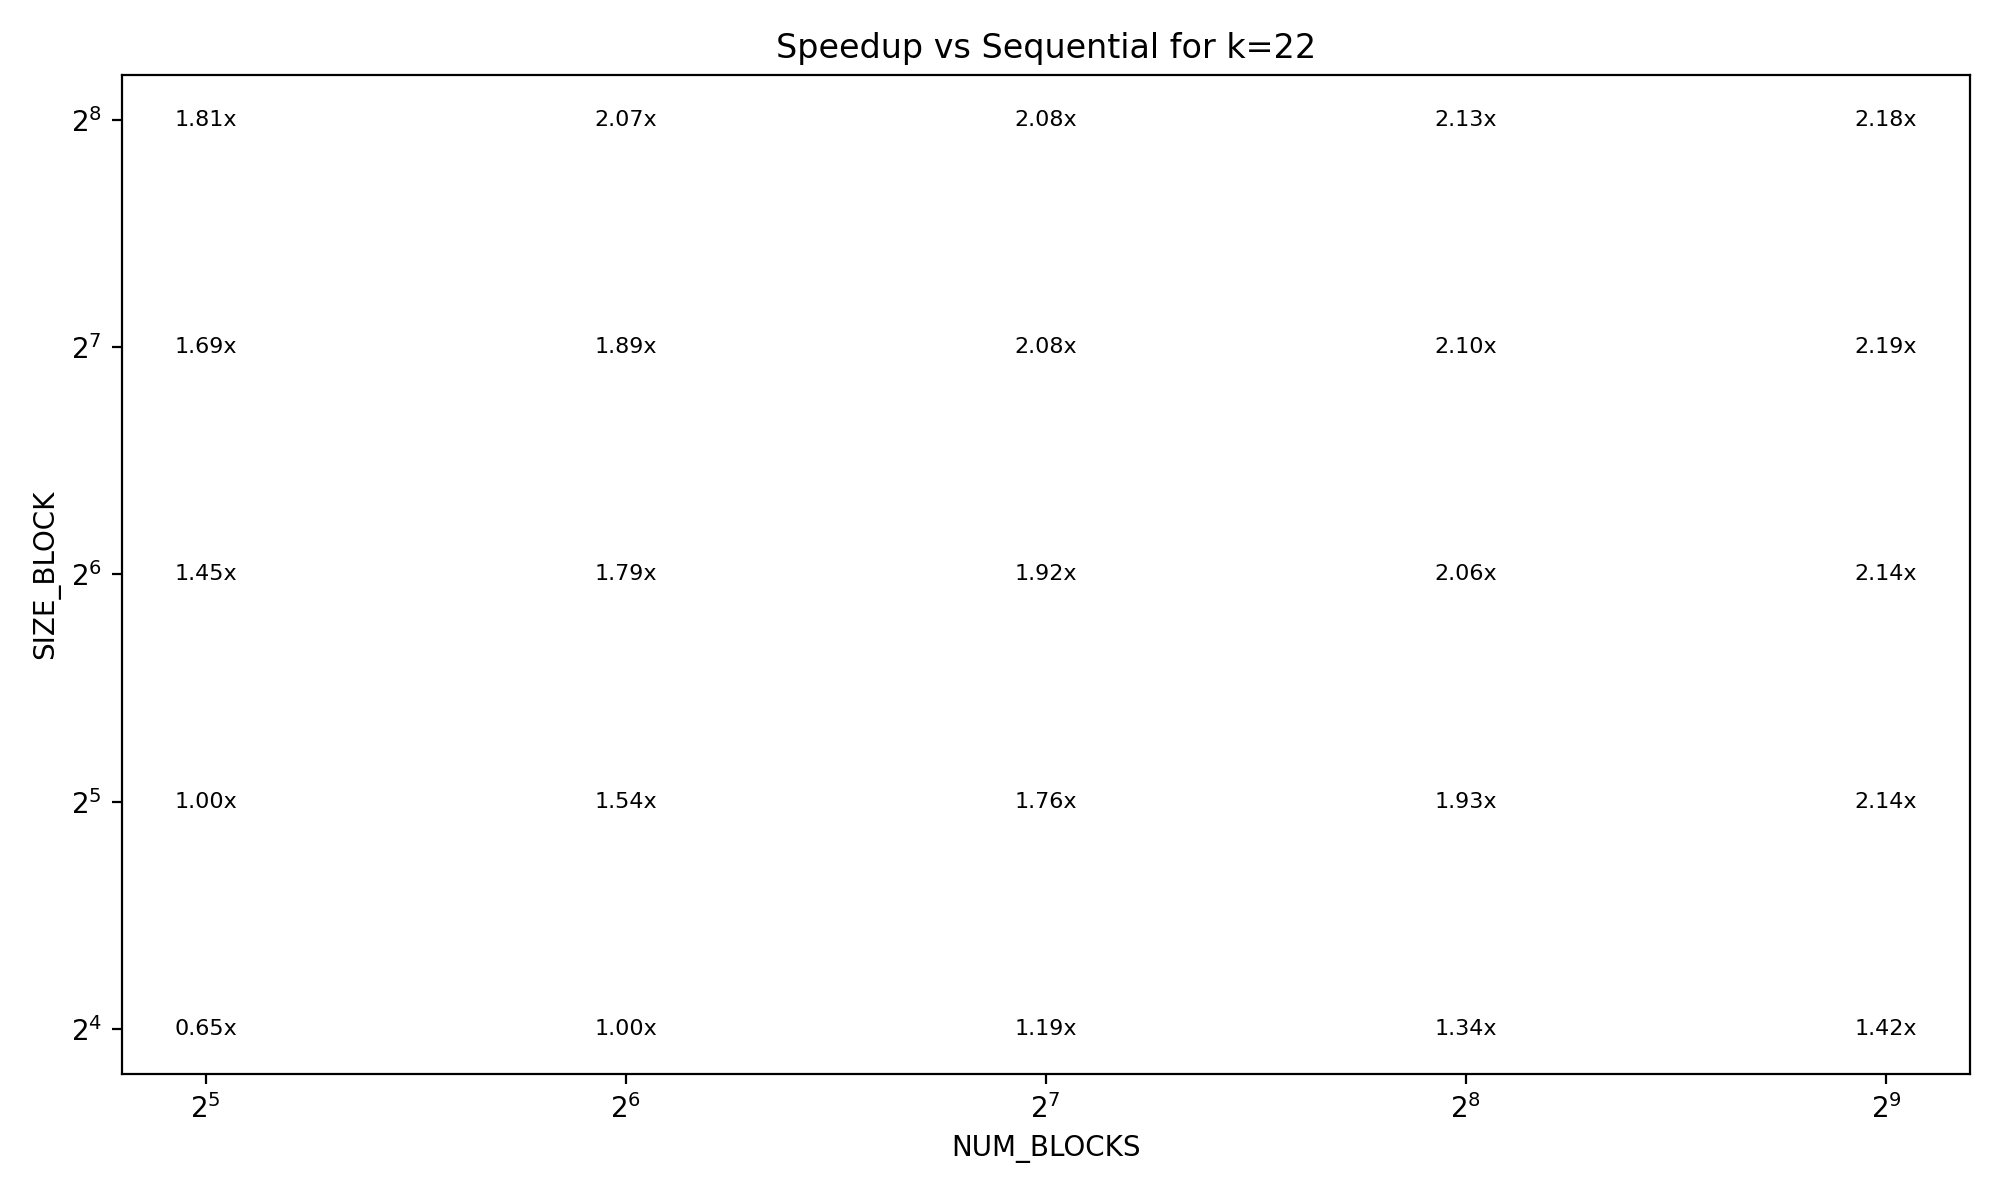
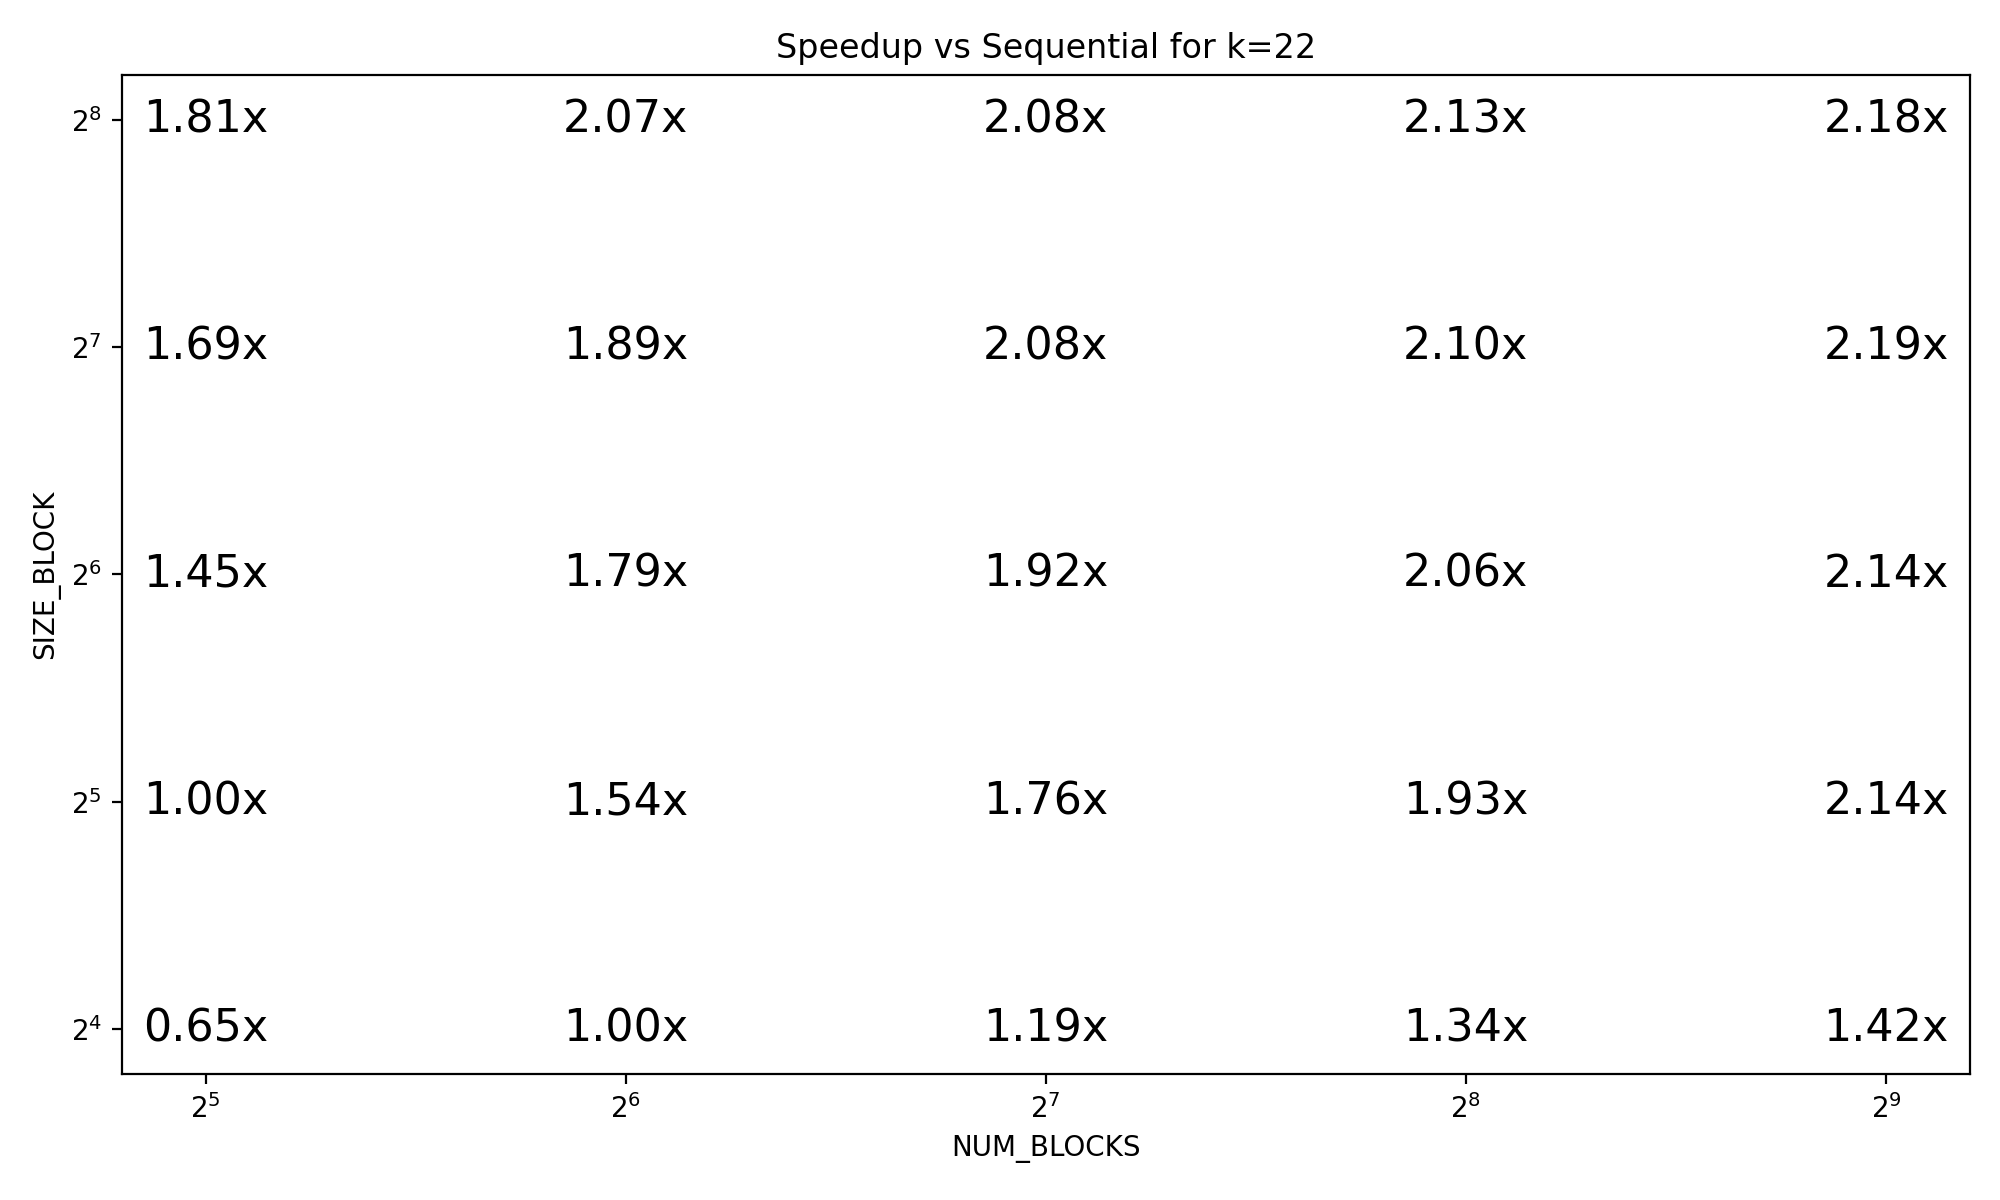
Pi approx task graphing

diff --git a/Lab3/Task2/approx_pi_graph.py b/Lab3/Task2/approx_pi_graph.py
@@ -3,53 +3,80 @@ import matplotlib.pyplot as plt
 from pathlib import Path
 
 # Input files
-seq_file = "measurements/count_primes_seq.txt"
-parallel_file = "measurements/count_primes.txt"
+seq_file = "measurements/approx_pi_seq.txt"
+opencl_file = "measurements/approx_pi.txt"
+vec_file = "measurements/approx_pi_vec.txt"
+guvec_file = "measurements/approx_pi_guvec.txt"
 
 # Output folder
 out_dir = Path("measurements/graphs")
 out_dir.mkdir(exist_ok=True)
 
 # Read sequential baseline
-# k seq time_us
+# k time_us
 seq = pd.read_csv(
     seq_file,
     sep=r"\s+",
     header=None,
-    names=["k", "label", "seq_time"]
+    names=["k", "time_seq"]
 )
 
-seq = seq[["k", "seq_time"]]
+# Aggregate sequential baseline by k
+seq = seq.groupby("k", as_index=False)["time_seq"].mean()
 
 # Read parallel results
 # NUM_BLOCKS SIZE_BLOCK k atomic? seq time_full_us time_calc_us
 par = pd.read_csv(
-    parallel_file,
+    opencl_file,
     sep=r"\s+",
     header=None,
     names=[
         "NUM_BLOCKS",
         "SIZE_BLOCK",
         "k",
-        "enabled",
-        "label",
-        "time_full",
-        "time_calc",
+        "time_par",
     ]
 )
 
-# Keep only atomic=true rows
-par = par[par["enabled"] == "t"].copy()
+par = par.groupby(["NUM_BLOCKS", "SIZE_BLOCK", "k"], as_index=False)["time_par"].mean()
 
 # Merge with sequential baseline by k
-df = par.merge(seq, on="k", how="inner")
+df_par = par.merge(seq, on="k", how="inner")
 
 # Factor:
 # > 1 means faster than sequential
 # < 1 means slower than sequential
-df["speedup_factor"] = df["seq_time"] / df["time_full"]
+df_par["speedup_factor"] = df_par["time_seq"] / df_par["time_par"]
 
-for k, group in df.groupby("k"):
+# Read Numba vectorized results
+# k time_us
+vec = pd.read_csv(
+    vec_file,
+    sep=r"\s+",
+    header=None,
+    names=["k", "time_vec"]
+)
+
+vec = vec.groupby("k", as_index=False)["time_vec"].mean()
+
+df_vec = vec.merge(seq, on="k", how="inner")
+df_vec["speedup_factor"] = df_vec["time_seq"] / df_vec["time_vec"]
+
+# Read Numba ug vectorized results
+# k block_size time_us
+guvec = pd.read_csv(
+    guvec_file,
+    sep=r"\s+",
+    header=None,
+    names=["k", "block_size", "time_guvec"]
+)
+
+guvec = guvec.groupby(["k", "block_size"], as_index=False)["time_guvec"].mean()
+
+df_guvec = guvec.merge(seq, on="k", how="inner")
+df_guvec["speedup_factor"] = df_guvec["time_seq"] / df_guvec["time_guvec"]
+
+for k, group in df_par.groupby("k"):
     plt.figure(figsize=(10, 6))
 
     scatter = plt.scatter(
@@ -65,9 +92,8 @@ for k, group in df.groupby("k"):
 
     plt.xlabel("NUM_BLOCKS")
     plt.ylabel("SIZE_BLOCK")
-    plt.title(f"Speedup vs Sequential for k={k}")
+    plt.title(f"OpenCL vs Sequential for k={k}")
 
-    # Mark neutral line conceptually through color scale:
     # speedup_factor = 1 means equal to sequential
     for _, row in group.iterrows():
         plt.text(
@@ -76,12 +102,29 @@ for k, group in df.groupby("k"):
             f"{row['speedup_factor']:.2f}x",
             ha="center",
             va="center",
-            fontsize=8,
+            fontsize=16,
         )
 
     plt.tight_layout()
 
-    output_path = out_dir / f"speedup_k_{k}.png"
+    output_path = out_dir / f"speedup_opencl_k_{k}.png"
+    plt.savefig(output_path, dpi=200)
+    plt.close()
+
+for k, group in df_vec.groupby("k"):
+    print(f"Numba Vectorized vs Sequential for k={k}: {group['speedup_factor'].mean():.2f}x")
+
+for k, group in df_guvec.groupby("k"):
+    plt.figure(figsize=(10, 6))
+    plt.plot(group["block_size"], group["speedup_factor"], marker="o")
+    plt.xscale("log", base=2)
+    plt.xlabel("Block Size")
+    plt.ylabel("Speedup Factor")
+    plt.title(f"Numba UG Vectorized vs Sequential for k={k}")
+    plt.grid(True, which="both", ls="--", lw=0.5)
+    plt.tight_layout()
+
+    output_path = out_dir / f"speedup_guvec_k_{k}.png"
     plt.savefig(output_path, dpi=200)
     plt.close()
 

diff --git a/Lab3/Task1/count_primes_graph.py b/Lab3/Task1/count_primes_graph.py
@@ -67,7 +67,6 @@ for k, group in df.groupby("k"):
     plt.ylabel("SIZE_BLOCK")
     plt.title(f"Speedup vs Sequential for k={k}")
 
-    # Mark neutral line conceptually through color scale:
     # speedup_factor = 1 means equal to sequential
     for _, row in group.iterrows():
         plt.text(
@@ -76,7 +75,7 @@ for k, group in df.groupby("k"):
             f"{row['speedup_factor']:.2f}x",
             ha="center",
             va="center",
-            fontsize=8,
+            fontsize=16,
         )
 
     plt.tight_layout()